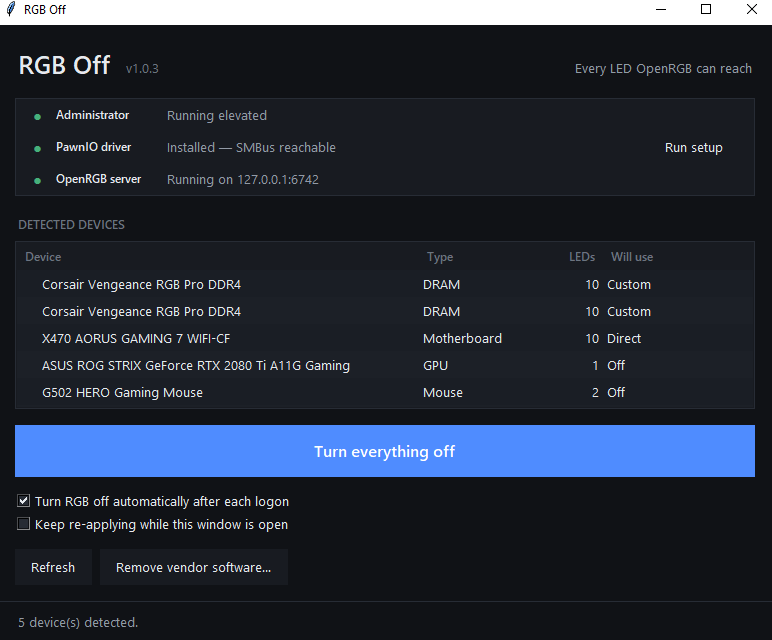
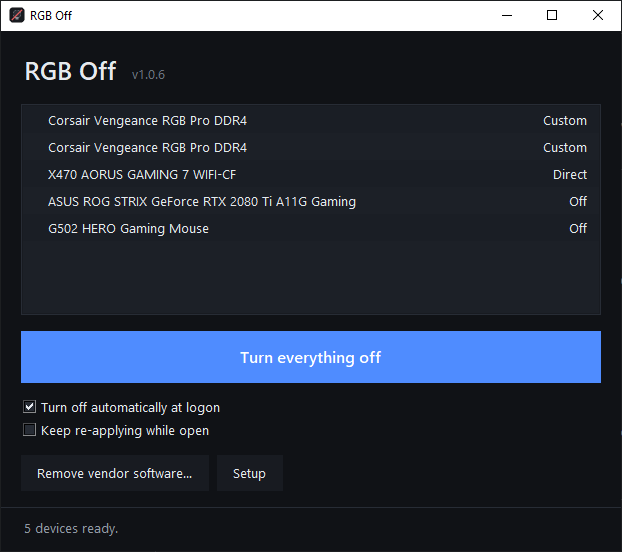
Show the 1.0.6 window in the README
The screenshot was two versions stale - it still showed the health rows and the
Type and LED columns that 1.0.6 removed, and the Tk feather instead of the app
icon. Alt text updated to match what the image now shows.

diff --git a/README.md b/README.md
@@ -9,7 +9,7 @@ Motherboard headers, ARGB fans and strips, RAM, GPU, peripherals. One button, on
 [![Latest release](https://img.shields.io/github/v/release/LuhOnCoffee/rgb-off)](https://github.com/LuhOnCoffee/rgb-off/releases/latest)
 [![Downloads](https://img.shields.io/github/downloads/LuhOnCoffee/rgb-off/total)](https://github.com/LuhOnCoffee/rgb-off/releases)
 
-![The RGB Off window: three green status rows, a table of detected devices with the mode each will use, and one button](assets/screenshot.png)
+![The RGB Off window: a list of detected devices with the mode each will use, and one button](assets/screenshot.png)
 
 ---
 
